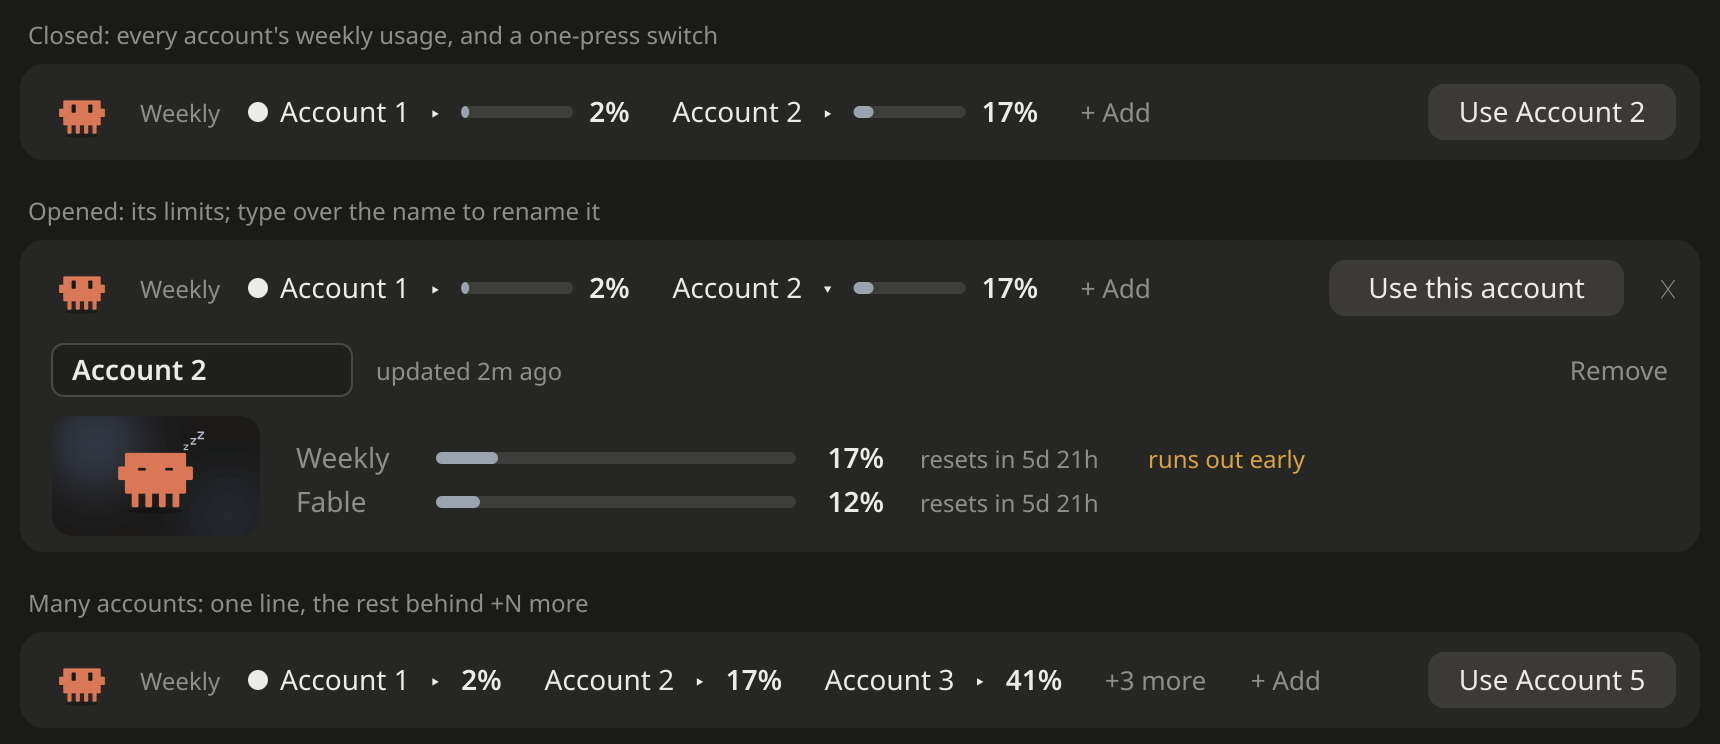
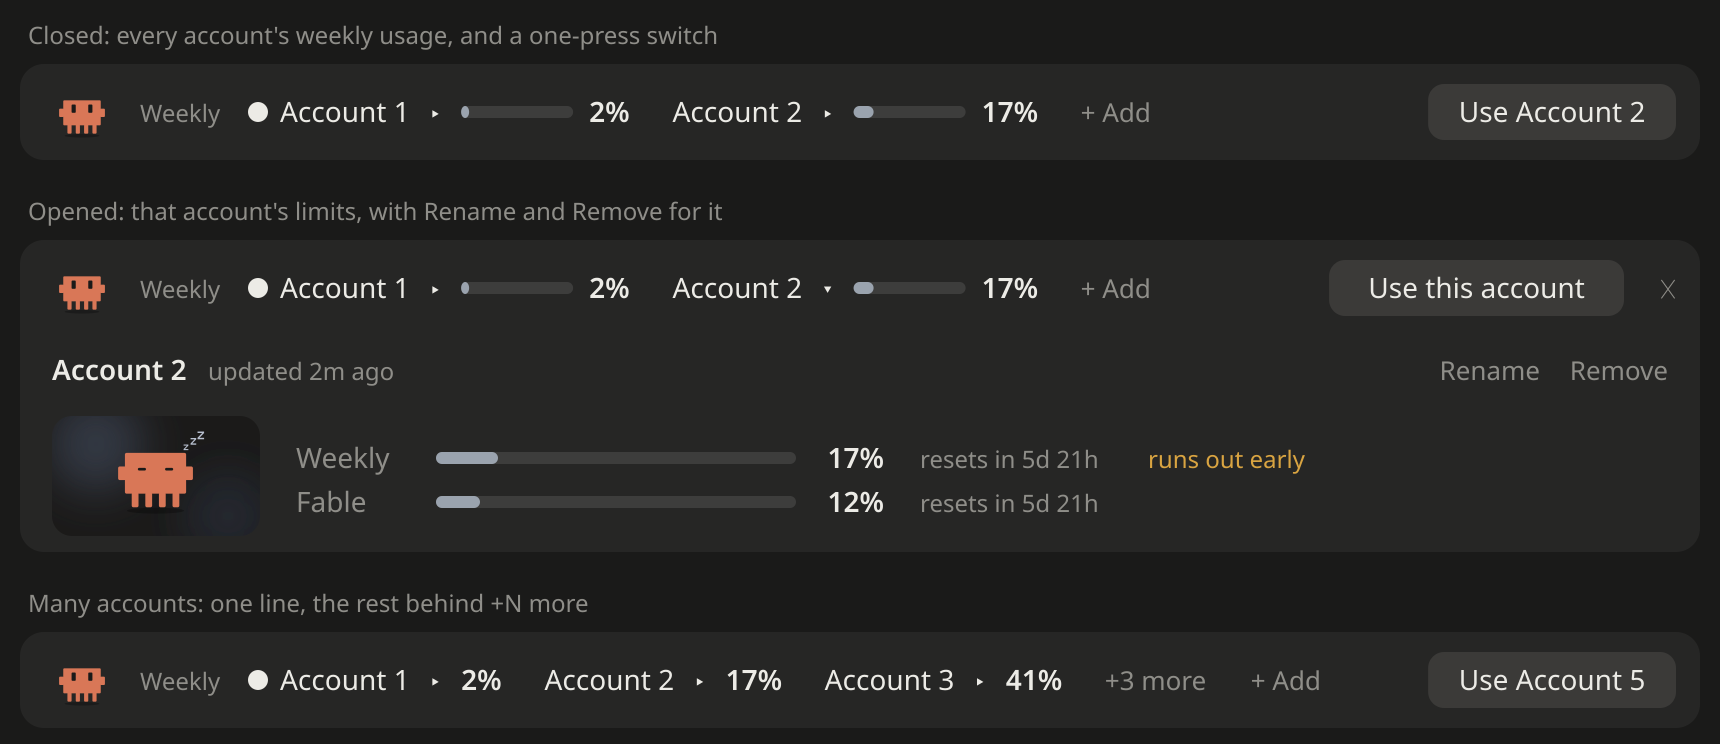
Calm the opened card: rename on demand, and ask twice before removing
The card's header showed the name as an always-open field beside its Enter
hint, with five things on one line. The name is now plain text; Rename turns
it into a field only while editing, and Remove needs a second press.

Changed region(s): [[0.0308, 0.4637, 0.339, 0.5255], [0.0616, 0.2782, 0.4314, 0.3091], [0.832, 0.4946, 0.8936, 0.5255]]

diff --git a/hooks/register.tsx b/hooks/register.tsx
@@ -29,9 +29,8 @@ import {
 // account-usage: several Claude subscriptions in one Claude Code.
 //
 // - A row above the prompt shows every account's weekly usage. Pressing an
-//   account opens its 5-hour, weekly and Fable windows; its name there is a
-//   field (type over it to rename), with Remove beside it. "+ Add" on the
-//   row adds an account.
+//   account opens its 5-hour, weekly and Fable windows, with Rename and
+//   Remove (asked twice) for it. "+ Add" on the row adds an account.
 // - "Use this account" sends this app's model requests out as that account:
 //   every request to the Messages API carries that account's token, from the
 //   next message on. Nothing else about the session changes.
@@ -50,8 +49,11 @@ const PANE = 'account-usage'
 const TITLE = 'Accounts'
 const REFRESH_MS = 30_000
 const OWN_LABEL = 'Main account'
-// `renaming` holds an account's id while the pane renames it, or this while the row adds one.
+// `renaming` says which small edit is open, one at a time: an account's id
+// while its name is a field, REMOVING + its id while Remove waits for a second
+// press, or ADDING while the row's field for a new account is open.
 const ADDING = '+'
+const REMOVING = 'x:'
 
 const accounts = atom({ plugin: 'account-usage', key: 'accounts' } as const, [], {
   shape: 'accounts-2',
@@ -354,9 +356,9 @@ async function setActivity($: EngineInterface, next: Activity): Promise<void> {
 
 /** Rows the opened details of one account take in the band. */
 function detailRows(a: AccountUsage): number {
-  // gaps above and below the header (its name is a field), the windows (the
-  // scene tile is three rows tall), and the padding under them
-  return 5 + Math.max(3, a.limits.length)
+  // gaps above and below the header, the windows (the scene tile is three rows
+  // tall), and the padding under them
+  return 4 + Math.max(3, a.limits.length)
 }
 
 export const register: Register = on => {
@@ -462,7 +464,10 @@ export const register: Register = on => {
     const sel = e.props.isCollapsed ? undefined : list.find(a => a.id === open)
     const own = await ownAccount($)
     // The field for a new account's name, opened by "+ Add" on the row.
-    const isAdding = !e.props.isCollapsed && (await read($, renaming)) === ADDING
+    const edit = e.props.isCollapsed ? '' : await read($, renaming)
+    const isAdding = edit === ADDING
+    const isRenaming = sel !== undefined && edit === sel.id
+    const isConfirming = sel !== undefined && edit === REMOVING + sel.id
     // Too little room to open here: the pane holds the details instead.
     const fits = sel !== undefined && 1 + detailRows(sel) + (isAdding ? 2 : 0) <= e.props.maxRows
     // The account in use comes first.
@@ -521,6 +526,7 @@ export const register: Register = on => {
                   label={`${a.id === mine ? '● ' : ''}${shortLabel(a.label)} ${a.id === open ? '▾' : '▸'}`}
                   onPress={async () => {
                     const willOpen = (await read($, expanded)) !== a.id
+                    await update($, renaming, () => '')
                     await update($, expanded, () => (willOpen ? a.id : ''))
                     if (willOpen && 1 + detailRows(a) > e.props.maxRows) {
                       await $.ui.open({ id: PANE, title: TITLE, focus: true })
@@ -582,6 +588,7 @@ export const register: Register = on => {
                 dimColor
                 label="✕"
                 onPress={async () => {
+                  await update($, renaming, () => '')
                   await update($, expanded, () => '')
                 }}
               />
@@ -599,18 +606,23 @@ export const register: Register = on => {
         </Box>
         {sel && fits && (
           <Box key={`details-${sel.id}`} flexDirection="column" marginTop={1} gap={1}>
+            {/* One calm line: the name leads, its state follows, and the two edits wait at the far end. */}
             <Box flexDirection="row" alignItems="center" justifyContent="space-between">
               <Box flexDirection="row" alignItems="center" gap={1}>
-                {/* The name is its own rename field: type over it and press Enter. */}
-                <Box width={22} flexShrink={0} flexDirection="column">
-                  <Input
-                    key={`name-${sel.id}`}
-                    value={sel.label}
-                    placeholder="Account name"
-                    submitLabel="rename"
-                    onSubmit={value => renameAccount($, sel.id, value)}
-                  />
-                </Box>
+                {isRenaming ? (
+                  <Box width={22} flexShrink={0} flexDirection="column">
+                    <Input
+                      key={`name-${sel.id}`}
+                      value={sel.label}
+                      placeholder="Account name"
+                      submitLabel="save"
+                      autoFocus
+                      onSubmit={value => renameAccount($, sel.id, value)}
+                    />
+                  </Box>
+                ) : (
+                  <Text weight="semibold">{sel.label}</Text>
+                )}
                 {sel.id === mine && (
                   <Text size="footnote" color="success">
                     In use
@@ -620,18 +632,35 @@ export const register: Register = on => {
                   {canUse.includes(sel.id) ? agoText(sel.updatedAt, t) : 'needs a token'}
                 </Text>
               </Box>
-              {sel.id !== own && (
+              <Box flexDirection="row" alignItems="center" gap={2} flexShrink={0}>
                 <Button
-                  key={`remove-${sel.id}`}
+                  key={`rename-${sel.id}`}
                   plain
                   dimColor
-                  label="Remove"
-                  onPress={async () => {
-                    await update($, expanded, () => '')
-                    await removeAccount($, sel.id)
-                  }}
+                  label={isRenaming ? 'Cancel' : 'Rename'}
+                  onPress={() => update($, renaming, value => (value === sel.id ? '' : sel.id))}
                 />
-              )}
+                {sel.id !== own &&
+                  (isConfirming ? (
+                    <Button
+                      key={`remove-${sel.id}`}
+                      label="Confirm remove"
+                      onPress={async () => {
+                        await update($, renaming, () => '')
+                        await update($, expanded, () => '')
+                        await removeAccount($, sel.id)
+                      }}
+                    />
+                  ) : (
+                    <Button
+                      key={`remove-${sel.id}`}
+                      plain
+                      dimColor
+                      label="Remove"
+                      onPress={() => update($, renaming, () => REMOVING + sel.id)}
+                    />
+                  ))}
+              </Box>
             </Box>
             <Box flexDirection="row" alignItems="center" gap={2}>
               {Svg && (
@@ -756,9 +785,25 @@ export const register: Register = on => {
                   label="Rename"
                   onPress={() => update($, renaming, id => (id === a.id ? '' : a.id))}
                 />
-                {a.id !== own && (
-                  <Button key={`remove-${a.id}`} plain dimColor label="Remove" onPress={() => removeAccount($, a.id)} />
-                )}
+                {a.id !== own &&
+                  (editing === REMOVING + a.id ? (
+                    <Button
+                      key={`remove-${a.id}`}
+                      label="Confirm remove"
+                      onPress={async () => {
+                        await update($, renaming, () => '')
+                        await removeAccount($, a.id)
+                      }}
+                    />
+                  ) : (
+                    <Button
+                      key={`remove-${a.id}`}
+                      plain
+                      dimColor
+                      label="Remove"
+                      onPress={() => update($, renaming, () => REMOVING + a.id)}
+                    />
+                  ))}
               </Box>
             </Box>
             {editing === a.id && (

diff --git a/tests/register.test.tsx b/tests/register.test.tsx
@@ -246,9 +246,13 @@ test('an opened card renames and removes its account; "+ Add" on the row adds on
   const config = () => JSON.parse(files.get(`${HOME}/config.json`) ?? '{"accounts":{}}').accounts as Record<string, { label: string }>
 
   const ui = await $.ui.mount({ ...BAND, surface: 'desktop' })
-  // The opened card's name is a field: typing over it and Enter renames the account.
+  // Rename turns the opened card's name into a field; Enter saves and the field goes.
   await ui.press({ key: `acct-${A2}` })
+  expect(await ui.find({ key: `name-${A2}` })).toBeUndefined()
+  await ui.press({ key: `rename-${A2}` })
+  expect((await ui.find({ key: `rename-${A2}` }))?.text).toBe('Cancel')
   await ui.input({ key: `name-${A2}`, text: 'Side' })
+  expect(await ui.find({ key: `name-${A2}` })).toBeUndefined()
   expect(config()[A2]?.label).toBe('Side')
   expect((await ui.find({ key: `acct-${A2}` }))?.text).toBe('Side ▾')
   // There is no Manage button to go through.
@@ -265,7 +269,15 @@ test('an opened card renames and removes its account; "+ Add" on the row adds on
   expect((await ui.find({ key: `steps-${id}` }))?.text).toContain(`save-token" ${id}`)
   expect(await ui.find({ key: `switch-${id}` })).toBeUndefined()
 
-  // Remove, in the card, forgets the account and closes the card.
+  // Remove asks twice: the first press only arms it, and closing the card disarms it.
+  await ui.press({ key: `remove-${id}` })
+  expect((await ui.find({ key: `remove-${id}` }))?.text).toBe('Confirm remove')
+  expect(config()[id]?.label).toBe('Work')
+  await ui.press({ key: 'close-details' })
+  await ui.press({ key: `acct-${id}` })
+  expect((await ui.find({ key: `remove-${id}` }))?.text).toBe('Remove')
+  // The second press forgets the account and closes the card.
+  await ui.press({ key: `remove-${id}` })
   await ui.press({ key: `remove-${id}` })
   expect(config()[id]).toBeUndefined()
   expect(await ui.find({ key: `acct-${id}` })).toBeUndefined()

diff --git a/README.md b/README.md
@@ -59,8 +59,8 @@ Run it in a normal terminal, not inside a Claude chat (not with `!`), so the tok
 | See one account's limits | Press its name on the row |
 | Switch to the account with the most room | Press `Use <account>` at the right of the row |
 | Switch to a specific account | Open it, then `Use this account` |
-| Rename an account | Open it, type over its name, Enter. Or `/accounts-rename 2 = Work` |
-| Remove an account | Open it, then **Remove**. Or `/accounts-remove Work` |
+| Rename an account | Open it, **Rename**, type the name, Enter. Or `/accounts-rename 2 = Work` |
+| Remove an account | Open it, **Remove**, then **Confirm remove**. Or `/accounts-remove Work` |
 | Add an account | **+ Add** on the row |
 | See every account at once | `/accounts` |
 
